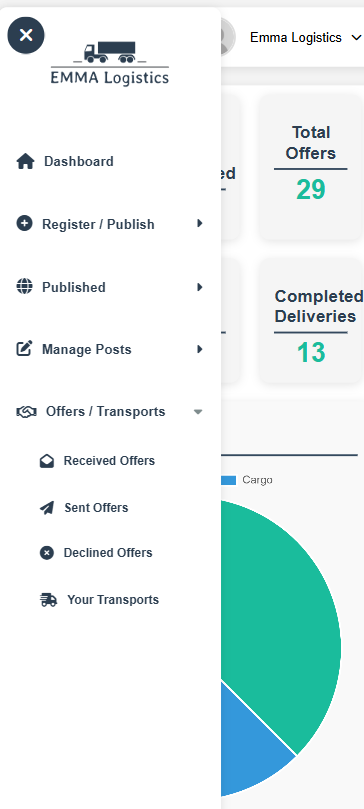
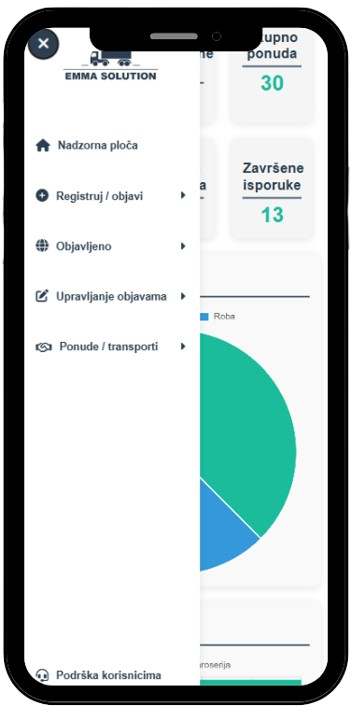
Adjut project for emma

diff --git a/index.html b/index.html
@@ -452,7 +452,7 @@
 			<div class="row">
 				<div class="col-md-4">
 					<div class="project img ftco-animate d-flex justify-content-center align-items-center"
-						style="background-image: url(images/project-4.jpg);">
+						style="background-image: url(images/emma-desktop.png);">
 						<div class="overlay"></div>
 						<div class="text text-center p-4">
 							<h3><a href="emma-solution-app.html">EMMA SOLUTION Web/Andorid App</a></h3>
@@ -473,7 +473,7 @@
 
 				<div class="col-md-8">
 					<div class="project img ftco-animate d-flex justify-content-center align-items-center"
-						style="background-image: url(images/project-1.jpg);">
+						style="background-image: url(images/emma-landing-page.png);">
 						<div class="overlay"></div>
 						<div class="text text-center p-4">
 							<h3><a href="emma-landing-page.html">EMMA SOLUTION Landing Page</a></h3>

diff --git a/emma-solution-app.html b/emma-solution-app.html
@@ -29,7 +29,7 @@
 <body data-spy="scroll" data-target=".site-navbar-target" data-offset="300">
     <nav class="navbar navbar-expand-lg navbar-dark ftco_navbar ftco-navbar-light site-navbar-target" id="ftco-navbar">
         <div class="container">
-            <a class="navbar-brand" href="emma-logistics-app.html">EMMA SOLUTION</a>
+            <a class="navbar-brand" href="emma-solution-app.html">EMMA SOLUTION</a>
             <button class="navbar-toggler js-fh5co-nav-toggle fh5co-nav-toggle" type="button" data-toggle="collapse"
                 data-target="#ftco-nav" aria-controls="ftco-nav" aria-expanded="false" aria-label="Toggle navigation"
                 style="color: white; border-color: white;">

diff --git a/emma-landing-page.html b/emma-landing-page.html
@@ -51,7 +51,7 @@
                     <strong>EMMA SOLUTION</strong> is a responsive landing page designed to highlight the features of our advanced freight exchange platform. The platform connects clients with reliable transport services, offering a streamlined solution for logistics and vehicle management.
                 </p>
                 
-                <img src="images/project-1.jpg" style="width: 100%; height: auto; max-width: 1200px; display: block; margin: 0 auto;">
+                <img src="images/emma-landing-page.png" style="width: 100%; height: auto; max-width: 1200px; display: block; margin: 0 auto;">
 
                 <h3>Key Features:</h3>
                 <ul>

diff --git a/appraisal.html b/appraisal.html
@@ -36,7 +36,7 @@
             <div class="collapse navbar-collapse" id="ftco-nav">
                 <ul class="navbar-nav nav ml-auto">
                     <li class="nav-item"><a href="index.html" class="nav-link"><span>Home</span></a></li>
-                    <li class="nav-item"><a href="emma-logistics-app.html" class="nav-link"><span>Next Project</span></a></li>
+                    <li class="nav-item"><a href="emma-solution-app.html" class="nav-link"><span>Next Project</span></a></li>
                 </ul>
             </div>
         </div>
